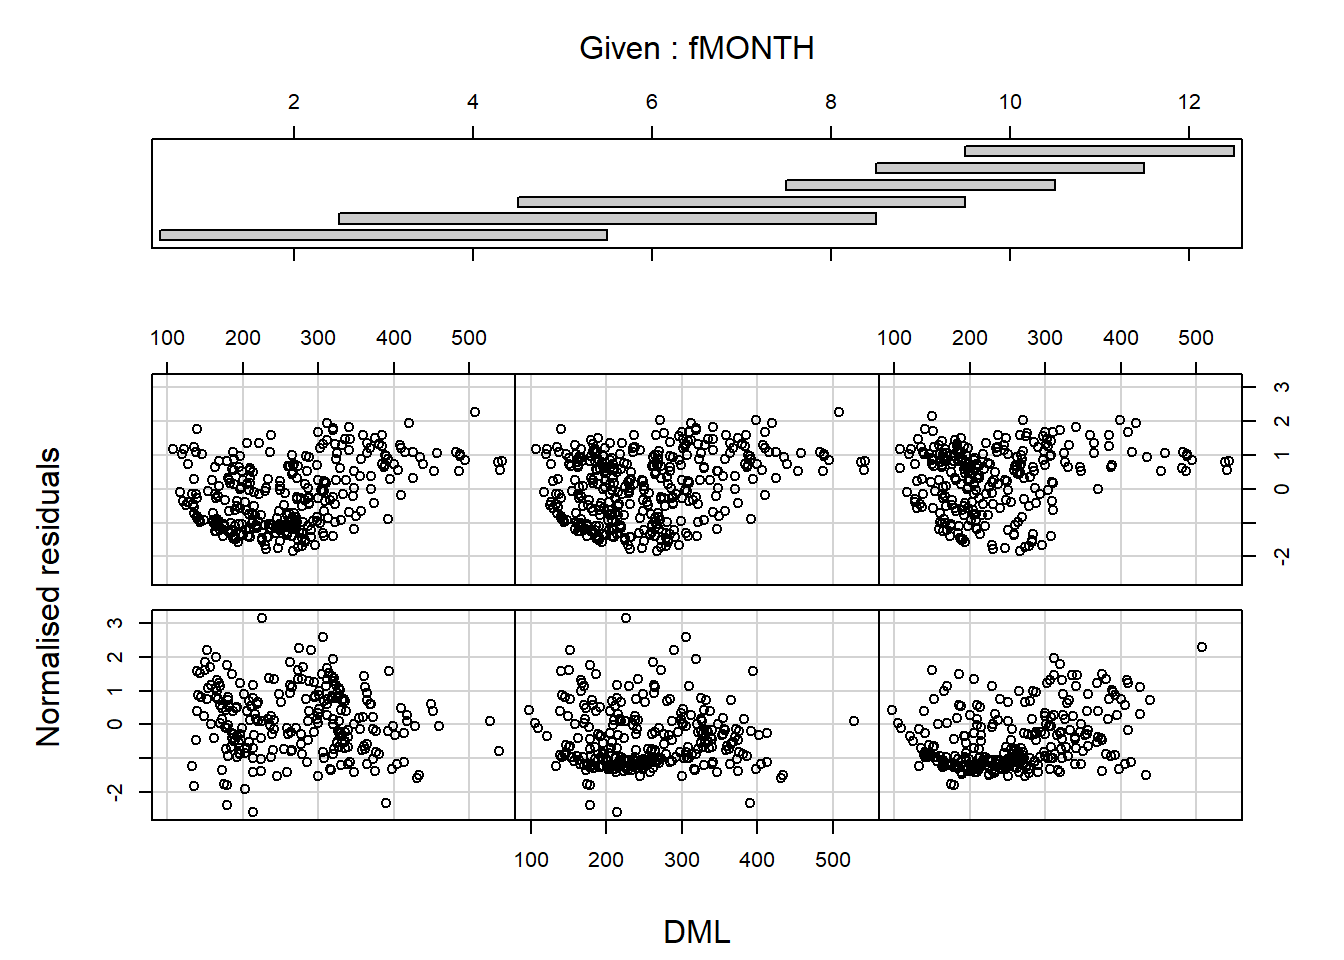
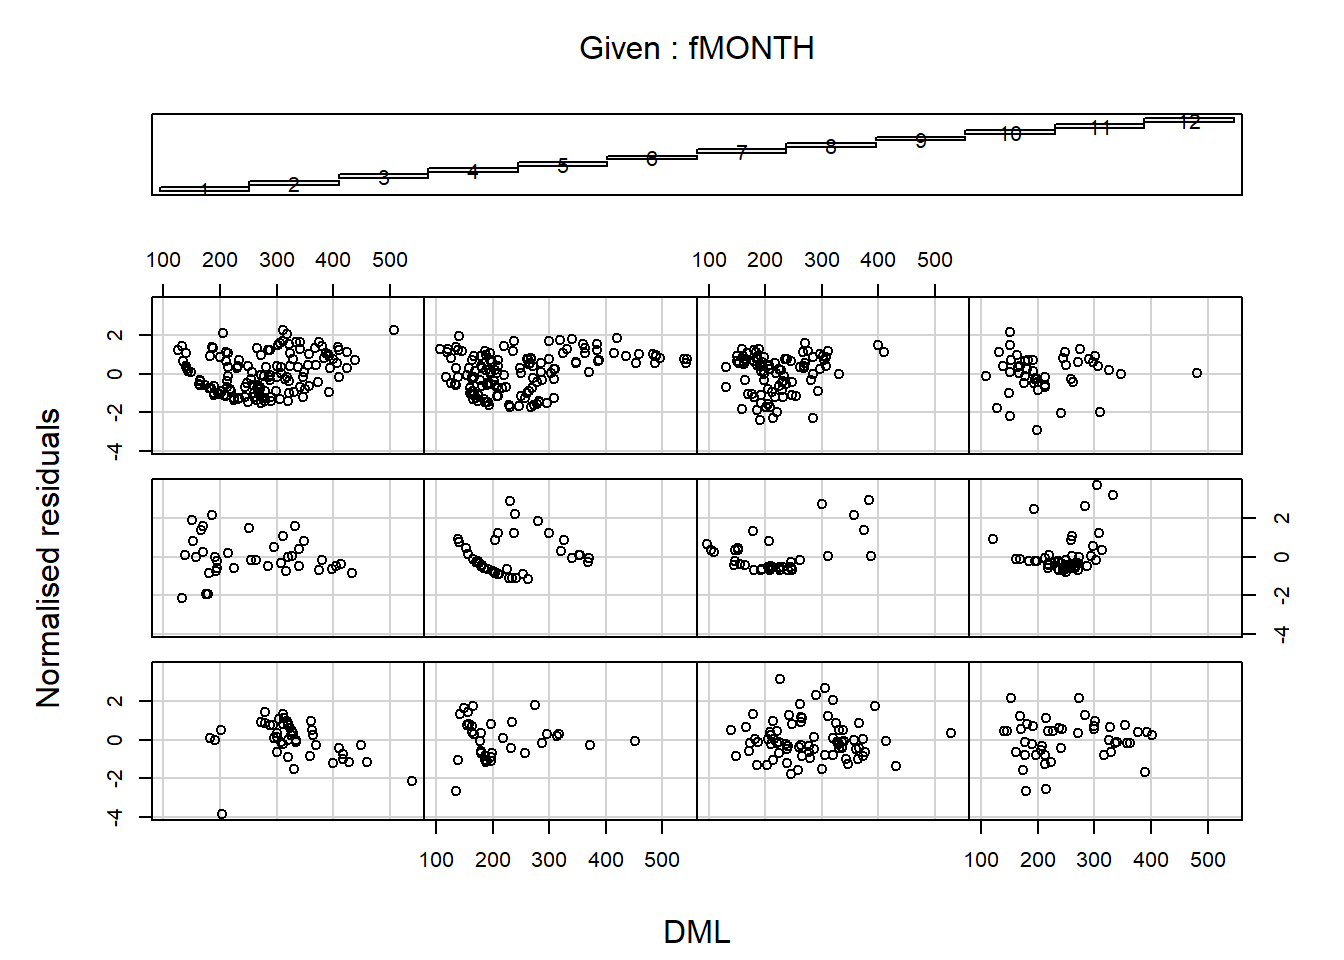
fixed factor in code

diff --git a/03-C-heterogeneity.html b/03-C-heterogeneity.html
@@ -592,7 +592,7 @@ div.tocify {
 </ul></li>
 <li><code>V1&lt;-varIdent(form= ∼ 1 | fMONTH)</code>
 <ul>
-<li><span class="math inline">\(\epsilon_{ij} \sim N(0, \sigma^{2j} \times \mathrm{DML}_i) \ \ j = 1, \ldots, 12\)</span></li>
+<li><span class="math inline">\(\epsilon_{ij} \sim N(0, \sigma_j^{2}) \ \ j = 1, \ldots, 12\)</span></li>
 </ul></li>
 <li><code>V1&lt;-varPower(form =∼ DML)</code>
 <ul>
@@ -659,7 +659,7 @@ Squid &lt;-<span class="st"> </span><span class="kw">read.table</span>(<span cla
 ##  $ MONTH       : int  2 9 12 11 8 10 5 7 7 7 ...
 ##  $ DML         : int  136 144 108 130 121 117 133 105 109 97 ...
 ##  $ Testisweight: num  0.006 0.008 0.008 0.011 0.012 0.012 0.013 0.015 0.017 0.017 ...
-##  $ fMONTH      : num  2 9 12 11 8 10 5 7 7 7 ...</code></pre>
+##  $ fMONTH      : Factor w/ 12 levels &quot;1&quot;,&quot;2&quot;,&quot;3&quot;,&quot;4&quot;,..: 2 9 12 11 8 10 5 7 7 7 ...</code></pre>
 <p>Then, inspect residuals across explanatory variables. The variability along the explanatory variable should be consistant. Look out for cone shapes!</p>
 <p><img src="images/03-C/unnamed-chunk-5-1.png" width="672" /></p>
 <p>Looks like we have cones, our data is hetergeneous/heteroskedastic. Now it’s time to investigate variance covariates. There are several possible types of relationships between variance and covariates.</p>
@@ -706,56 +706,168 @@ M.gls1&lt;-<span class="kw">gls</span>(Testisweight~DML*fMONTH,
               <span class="dt">weights=</span>vf1Fixed,<span class="dt">data=</span>Squid)
 <span class="kw">anova</span>(M.lm,M.gls1)</code></pre></div>
 <pre><code>##        Model df      AIC      BIC    logLik
-## M.lm       1  5 4018.646 4041.839 -2004.323
-## M.gls1     2  5 3881.736 3904.929 -1935.868</code></pre>
+## M.lm       1 25 3752.084 3867.385 -1851.042
+## M.gls1     2 25 3620.898 3736.199 -1785.449</code></pre>
 <p>Now allow for different variance for each month</p>
 <div class="sourceCode"><pre class="sourceCode r"><code class="sourceCode r">vf2 &lt;-<span class="st"> </span><span class="kw">varIdent</span>(<span class="dt">form=</span> ~<span class="st"> </span><span class="dv">1</span>|fMONTH)
 M.gls2 &lt;-<span class="st"> </span><span class="kw">gls</span>(Testisweight ~<span class="st"> </span>DML*fMONTH,
               <span class="dt">weights=</span>vf2, <span class="dt">data =</span>Squid)
 <span class="kw">anova</span>(M.lm,M.gls1,M.gls2)</code></pre></div>
 <pre><code>##        Model df      AIC      BIC    logLik   Test  L.Ratio p-value
-## M.lm       1  5 4018.646 4041.839 -2004.323                        
-## M.gls1     2  5 3881.736 3904.929 -1935.868                        
-## M.gls2     3 16 3935.014 4009.232 -1951.507 2 vs 3 31.27845   0.001</code></pre>
+## M.lm       1 25 3752.084 3867.385 -1851.042                        
+## M.gls1     2 25 3620.898 3736.199 -1785.449                        
+## M.gls2     3 36 3614.436 3780.469 -1771.218 2 vs 3 28.46161  0.0027</code></pre>
 <div class="sourceCode"><pre class="sourceCode r"><code class="sourceCode r"><span class="kw">anova</span>(M.lm,M.gls2)</code></pre></div>
 <pre><code>##        Model df      AIC      BIC    logLik   Test  L.Ratio p-value
-## M.lm       1  5 4018.646 4041.839 -2004.323                        
-## M.gls2     2 16 3935.014 4009.232 -1951.507 1 vs 2 105.6319  &lt;.0001</code></pre>
+## M.lm       1 25 3752.084 3867.385 -1851.042                        
+## M.gls2     2 36 3614.436 3780.469 -1771.218 1 vs 2 159.6479  &lt;.0001</code></pre>
 <div class="sourceCode"><pre class="sourceCode r"><code class="sourceCode r"><span class="kw">summary</span>(M.gls2)</code></pre></div>
 <pre><code>## Generalized least squares fit by REML
 ##   Model: Testisweight ~ DML * fMONTH 
 ##   Data: Squid 
 ##        AIC      BIC    logLik
-##   3935.014 4009.232 -1951.507
+##   3614.436 3780.469 -1771.218
 ## 
 ## Variance function:
 ##  Structure: Different standard deviations per stratum
 ##  Formula: ~1 | fMONTH 
 ##  Parameter estimates:
 ##         2         9        12        11         8        10         5 
-## 1.0000000 2.0240109 1.0331145 1.0370954 2.4282000 1.4202508 1.7449301 
+## 1.0000000 2.9913588 1.2736165 1.5090471 0.9821378 2.2162169 1.6396315 
 ##         7         6         4         1         3 
-## 1.7786756 1.4326296 0.9858501 2.3423366 1.2697356 
+## 1.3783514 1.6473098 1.4232366 1.9584902 1.9788666 
 ## 
 ## Coefficients:
-##                  Value Std.Error   t-value p-value
-## (Intercept) -0.8912931 0.7607497 -1.171598  0.2417
-## DML          0.0197630 0.0028702  6.885594  0.0000
-## fMONTH      -0.6514436 0.0894567 -7.282221  0.0000
-## DML:fMONTH   0.0035094 0.0003502 10.021623  0.0000
+##                   Value Std.Error   t-value p-value
+## (Intercept)    3.215222 1.8341071  1.753017  0.0800
+## DML            0.021157 0.0054400  3.889175  0.0001
+## fMONTH2       -6.720020 1.9597221 -3.429068  0.0006
+## fMONTH3       -3.926923 2.1674222 -1.811794  0.0704
+## fMONTH4       -4.772045 2.0577397 -2.319071  0.0207
+## fMONTH5       -2.771457 2.1100343 -1.313466  0.1894
+## fMONTH6       -9.598061 2.2226968 -4.318205  0.0000
+## fMONTH7       -7.494959 2.0476376 -3.660295  0.0003
+## fMONTH8       -7.479426 2.1418112 -3.492103  0.0005
+## fMONTH9      -14.963009 2.1846006 -6.849311  0.0000
+## fMONTH10     -12.320827 1.9458121 -6.331972  0.0000
+## fMONTH11     -12.650490 2.0247519 -6.247921  0.0000
+## fMONTH12      -9.235813 1.9872672 -4.647494  0.0000
+## DML:fMONTH2    0.018032 0.0062548  2.882916  0.0041
+## DML:fMONTH3    0.003151 0.0067435  0.467309  0.6404
+## DML:fMONTH4    0.002972 0.0064731  0.459058  0.6463
+## DML:fMONTH5   -0.008677 0.0066347 -1.307773  0.1914
+## DML:fMONTH6    0.017620 0.0075283  2.340566  0.0195
+## DML:fMONTH7    0.004647 0.0067263  0.690912  0.4898
+## DML:fMONTH8    0.000500 0.0069997  0.071447  0.9431
+## DML:fMONTH9    0.044242 0.0068417  6.466483  0.0000
+## DML:fMONTH10   0.039495 0.0059475  6.640523  0.0000
+## DML:fMONTH11   0.046671 0.0066109  7.059729  0.0000
+## DML:fMONTH12   0.034099 0.0064115  5.318337  0.0000
 ## 
 ##  Correlation: 
-##            (Intr) DML    fMONTH
-## DML        -0.952              
-## fMONTH     -0.905  0.873       
-## DML:fMONTH  0.841 -0.897 -0.950
+##              (Intr) DML    fMONTH2 fMONTH3 fMONTH4 fMONTH5 fMONTH6 fMONTH7
+## DML          -0.979                                                       
+## fMONTH2      -0.936  0.916                                                
+## fMONTH3      -0.846  0.829  0.792                                         
+## fMONTH4      -0.891  0.873  0.834   0.754                                 
+## fMONTH5      -0.869  0.851  0.814   0.736   0.775                         
+## fMONTH6      -0.825  0.808  0.772   0.698   0.735   0.717                 
+## fMONTH7      -0.896  0.877  0.838   0.758   0.798   0.779   0.739         
+## fMONTH8      -0.856  0.839  0.801   0.725   0.763   0.744   0.707   0.767 
+## fMONTH9      -0.840  0.822  0.786   0.710   0.748   0.730   0.693   0.752 
+## fMONTH10     -0.943  0.923  0.882   0.798   0.840   0.819   0.778   0.844 
+## fMONTH11     -0.906  0.887  0.848   0.767   0.807   0.787   0.747   0.811 
+## fMONTH12     -0.923  0.904  0.864   0.781   0.823   0.802   0.762   0.827 
+## DML:fMONTH2   0.852 -0.870 -0.962  -0.721  -0.759  -0.740  -0.703  -0.763 
+## DML:fMONTH3   0.790 -0.807 -0.739  -0.973  -0.704  -0.687  -0.652  -0.708 
+## DML:fMONTH4   0.823 -0.840 -0.770  -0.696  -0.969  -0.715  -0.679  -0.737 
+## DML:fMONTH5   0.803 -0.820 -0.751  -0.679  -0.716  -0.966  -0.663  -0.719 
+## DML:fMONTH6   0.708 -0.723 -0.662  -0.599  -0.631  -0.615  -0.960  -0.634 
+## DML:fMONTH7   0.792 -0.809 -0.741  -0.670  -0.706  -0.688  -0.654  -0.957 
+## DML:fMONTH8   0.761 -0.777 -0.712  -0.644  -0.678  -0.662  -0.628  -0.682 
+## DML:fMONTH9   0.779 -0.795 -0.729  -0.659  -0.694  -0.677  -0.642  -0.697 
+## DML:fMONTH10  0.896 -0.915 -0.838  -0.758  -0.798  -0.779  -0.739  -0.802 
+## DML:fMONTH11  0.806 -0.823 -0.754  -0.682  -0.718  -0.700  -0.665  -0.722 
+## DML:fMONTH12  0.831 -0.848 -0.778  -0.703  -0.741  -0.722  -0.686  -0.744 
+##              fMONTH8 fMONTH9 fMONTH10 fMONTH11 fMONTH12 DML:MONTH2
+## DML                                                               
+## fMONTH2                                                           
+## fMONTH3                                                           
+## fMONTH4                                                           
+## fMONTH5                                                           
+## fMONTH6                                                           
+## fMONTH7                                                           
+## fMONTH8                                                           
+## fMONTH9       0.719                                               
+## fMONTH10      0.807   0.791                                       
+## fMONTH11      0.776   0.761   0.854                               
+## fMONTH12      0.790   0.775   0.870    0.836                      
+## DML:fMONTH2  -0.729  -0.715  -0.803   -0.771   -0.786             
+## DML:fMONTH3  -0.676  -0.663  -0.745   -0.716   -0.729    0.702    
+## DML:fMONTH4  -0.705  -0.691  -0.776   -0.745   -0.760    0.731    
+## DML:fMONTH5  -0.688  -0.674  -0.757   -0.727   -0.741    0.713    
+## DML:fMONTH6  -0.606  -0.594  -0.667   -0.641   -0.653    0.628    
+## DML:fMONTH7  -0.678  -0.665  -0.747   -0.717   -0.731    0.703    
+## DML:fMONTH8  -0.973  -0.639  -0.717   -0.689   -0.702    0.676    
+## DML:fMONTH9  -0.667  -0.970  -0.734   -0.705   -0.719    0.692    
+## DML:fMONTH10 -0.767  -0.752  -0.969   -0.811   -0.827    0.796    
+## DML:fMONTH11 -0.690  -0.677  -0.760   -0.964   -0.744    0.716    
+## DML:fMONTH12 -0.711  -0.698  -0.783   -0.753   -0.961    0.738    
+##              DML:MONTH3 DML:MONTH4 DML:MONTH5 DML:MONTH6 DML:MONTH7
+## DML                                                                
+## fMONTH2                                                            
+## fMONTH3                                                            
+## fMONTH4                                                            
+## fMONTH5                                                            
+## fMONTH6                                                            
+## fMONTH7                                                            
+## fMONTH8                                                            
+## fMONTH9                                                            
+## fMONTH10                                                           
+## fMONTH11                                                           
+## fMONTH12                                                           
+## DML:fMONTH2                                                        
+## DML:fMONTH3                                                        
+## DML:fMONTH4   0.678                                                
+## DML:fMONTH5   0.661      0.689                                     
+## DML:fMONTH6   0.583      0.607      0.592                          
+## DML:fMONTH7   0.652      0.680      0.663      0.584               
+## DML:fMONTH8   0.627      0.653      0.637      0.562      0.629    
+## DML:fMONTH9   0.641      0.668      0.652      0.575      0.643    
+## DML:fMONTH10  0.738      0.769      0.750      0.661      0.740    
+## DML:fMONTH11  0.664      0.692      0.675      0.595      0.666    
+## DML:fMONTH12  0.684      0.713      0.696      0.613      0.686    
+##              DML:MONTH8 DML:MONTH9 DML:MONTH10 DML:MONTH11
+## DML                                                       
+## fMONTH2                                                   
+## fMONTH3                                                   
+## fMONTH4                                                   
+## fMONTH5                                                   
+## fMONTH6                                                   
+## fMONTH7                                                   
+## fMONTH8                                                   
+## fMONTH9                                                   
+## fMONTH10                                                  
+## fMONTH11                                                  
+## fMONTH12                                                  
+## DML:fMONTH2                                               
+## DML:fMONTH3                                               
+## DML:fMONTH4                                               
+## DML:fMONTH5                                               
+## DML:fMONTH6                                               
+## DML:fMONTH7                                               
+## DML:fMONTH8                                               
+## DML:fMONTH9   0.618                                       
+## DML:fMONTH10  0.711      0.727                            
+## DML:fMONTH11  0.640      0.654      0.753                 
+## DML:fMONTH12  0.659      0.675      0.776       0.698     
 ## 
 ## Standardized residuals:
 ##         Min          Q1         Med          Q3         Max 
-## -4.22130538 -0.81016250 -0.07261459  0.64362145  4.50319775 
+## -3.81345785 -0.59501560 -0.03602982  0.63482429  4.28871347 
 ## 
-## Residual standard error: 2.027628 
-## Degrees of freedom: 768 total; 764 residual</code></pre>
+## Residual standard error: 1.273373 
+## Degrees of freedom: 768 total; 744 residual</code></pre>
 <p>Let’s look at the residuals across months to further investigate. Graphs yay!</p>
 <div class="sourceCode"><pre class="sourceCode r"><code class="sourceCode r"><span class="kw">library</span>(lattice)
 
@@ -794,20 +906,20 @@ M.gls8&lt;-<span class="kw">gls</span>(Testisweight ~<span class="st"> </span>DM
 <span class="kw">anova</span>(M.lm,M.gls1,M.gls2,M.gls3,M.gls4,
         M.gls5,M.gls6,M.gls7,M.gls8)</code></pre></div>
 <pre><code>##        Model df      AIC      BIC    logLik   Test   L.Ratio p-value
-## M.lm       1  5 4018.646 4041.839 -2004.323                         
-## M.gls1     2  5 3881.736 3904.929 -1935.868                         
-## M.gls2     3 16 3935.014 4009.232 -1951.507 2 vs 3  31.27845  0.0010
-## M.gls3     4  6 3747.039 3774.871 -1867.520 3 vs 4 167.97531  &lt;.0001
-## M.gls4     5 17 3710.649 3789.505 -1838.324 4 vs 5  58.39022  &lt;.0001
-## M.gls5     6  6 3769.062 3796.893 -1878.531 5 vs 6  80.41269  &lt;.0001
-## M.gls6     7  7 3749.039 3781.509 -1867.520 6 vs 7  22.02218  &lt;.0001
-## M.gls7     8 29 3734.649 3869.168 -1838.325 7 vs 8  58.39034  &lt;.0001
-## M.gls8     9 17 3728.888 3807.744 -1847.444 8 vs 9  18.23897  0.1086</code></pre>
+## M.lm       1 25 3752.084 3867.385 -1851.042                         
+## M.gls1     2 25 3620.898 3736.199 -1785.449                         
+## M.gls2     3 36 3614.436 3780.469 -1771.218 2 vs 3  28.46162  0.0027
+## M.gls3     4 26 3473.019 3592.932 -1710.509 3 vs 4 121.41700  &lt;.0001
+## M.gls4     5 37 3407.511 3578.156 -1666.755 4 vs 5  87.50799  &lt;.0001
+## M.gls5     6 26 3478.152 3598.066 -1713.076 5 vs 6  92.64159  &lt;.0001
+## M.gls6     7 27 3475.019 3599.544 -1710.509 6 vs 7   5.13372  0.0235
+## M.gls7     8 49 3431.511 3657.501 -1666.755 7 vs 8  87.50783  &lt;.0001
+## M.gls8     9 37 3414.817 3585.463 -1670.409 8 vs 9   7.30654  0.8367</code></pre>
 <p>Ooh la la looks like varPower(form=~ DML | fMONTH) is the best model</p>
 <div class="sourceCode"><pre class="sourceCode r"><code class="sourceCode r"><span class="kw">anova</span>(M.lm,M.gls4)</code></pre></div>
 <pre><code>##        Model df      AIC      BIC    logLik   Test  L.Ratio p-value
-## M.lm       1  5 4018.646 4041.839 -2004.323                        
-## M.gls4     2 17 3710.649 3789.505 -1838.324 1 vs 2 331.9975  &lt;.0001</code></pre>
+## M.lm       1 25 3752.084 3867.385 -1851.042                        
+## M.gls4     2 37 3407.511 3578.156 -1666.755 1 vs 2 368.5728  &lt;.0001</code></pre>
 <p>Let’s graphically confirm.</p>
 <p>First look at ordinary residuals</p>
 <div class="sourceCode"><pre class="sourceCode r"><code class="sourceCode r">E1 &lt;-<span class="st"> </span><span class="kw">resid</span>(M.gls4)
@@ -820,12 +932,12 @@ M.gls8&lt;-<span class="kw">gls</span>(Testisweight ~<span class="st"> </span>DM
        <span class="dt">ylab =</span> <span class="st">&quot;Normalised residuals&quot;</span>)</code></pre></div>
 <p><img src="images/03-C/unnamed-chunk-16-1.png" width="672" /></p>
 <div class="sourceCode"><pre class="sourceCode r"><code class="sourceCode r"><span class="kw">anova</span>(M.gls4)</code></pre></div>
-<pre><code>## Denom. DF: 764 
+<pre><code>## Denom. DF: 744 
 ##             numDF   F-value p-value
-## (Intercept)     1 1711.0397  &lt;.0001
-## DML             1  869.0627  &lt;.0001
-## fMONTH          1    2.0290  0.1547
-## DML:fMONTH      1    7.6577  0.0058</code></pre>
+## (Intercept)     1 1920.1217  &lt;.0001
+## DML             1 1023.5976  &lt;.0001
+## fMONTH         11   71.0854  &lt;.0001
+## DML:fMONTH     11   23.9790  &lt;.0001</code></pre>
 <p>Some notes for picking var functions from the book:</p>
 <ul>
 <li>If the variance covariate is a nominal variable use varIdent.</li>
